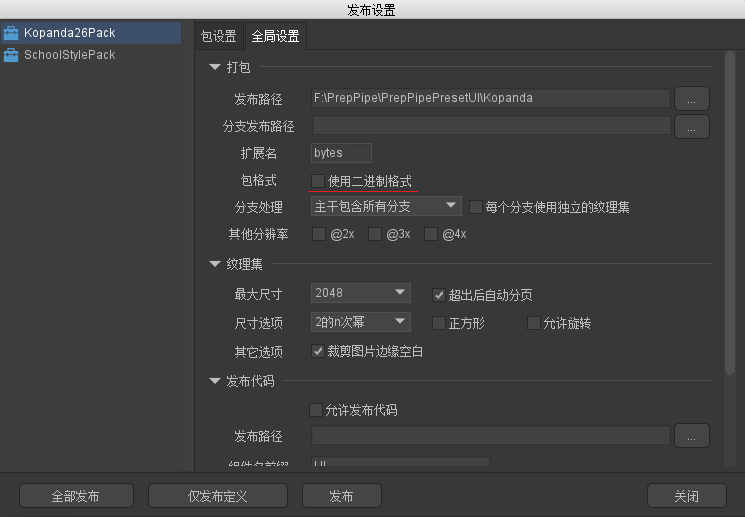
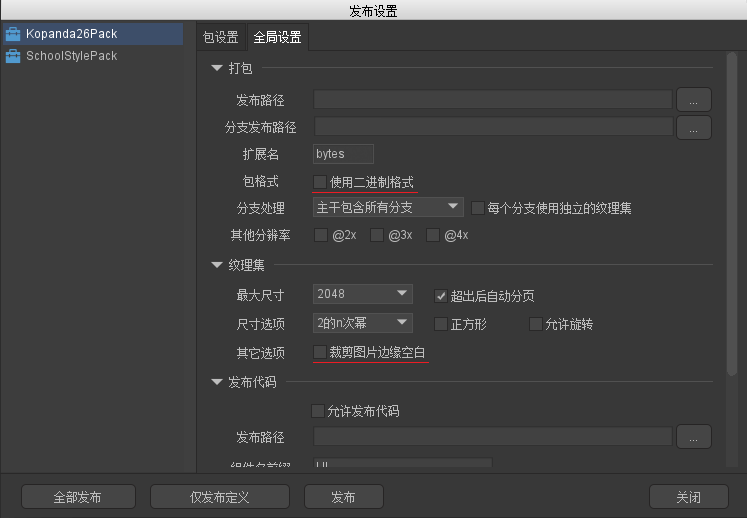
Update UI component attribution doc.

diff --git a/docs/zh/ui/fgui_preparation.md b/docs/zh/ui/fgui_preparation.md
@@ -26,10 +26,11 @@
 或点击快捷菜单的“发布设置”按钮：
 ![发布设置按钮](screenshots\fguieditor\quickmenu_publish_setting.png)
 
-在弹出的“发布设置”弹窗中，“全局设置->包格式”栏，务必**取消勾选**“使用二进制格式”。
+在弹出的“发布设置”弹窗中，“全局设置->包格式”栏，务必**取消勾选**“使用二进制格式”和“剪裁图片边缘空白”。
 ![发布格式设置](screenshots\fguieditor\publish_setting_base.png)
 
 “二进制格式”发布的资源包在搭配对应引擎的FairyGUI运行库时可以有很高的效率，但由于不存在Ren'Py的运行库，所以目前无效。语涵编译器的“UI资源转换功能”只识别文本格式的bytes文件。
+“剪裁图片边缘空白”会在发布纹理集时，重新计算png图片非透明像素的最小包围框并裁剪。该功能可以节约一些纹理集的存储空间，但可能会导致使用“UI资源转换功能”后Ren'Py显示效果有异常。
 
 ## 额外步骤
 
